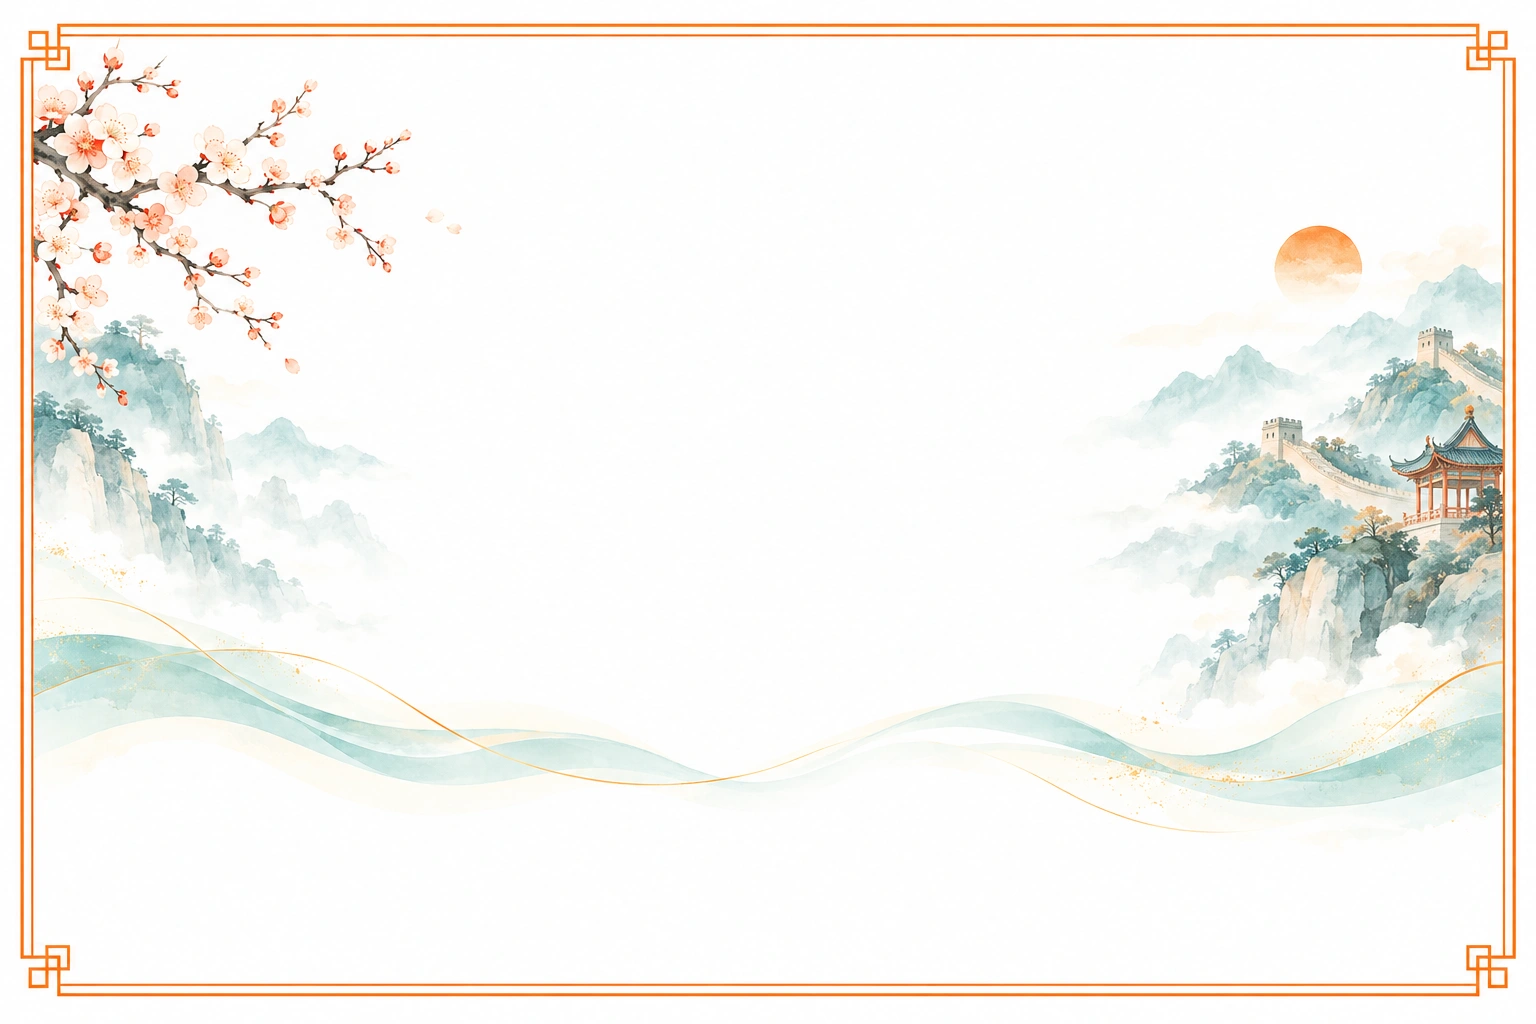
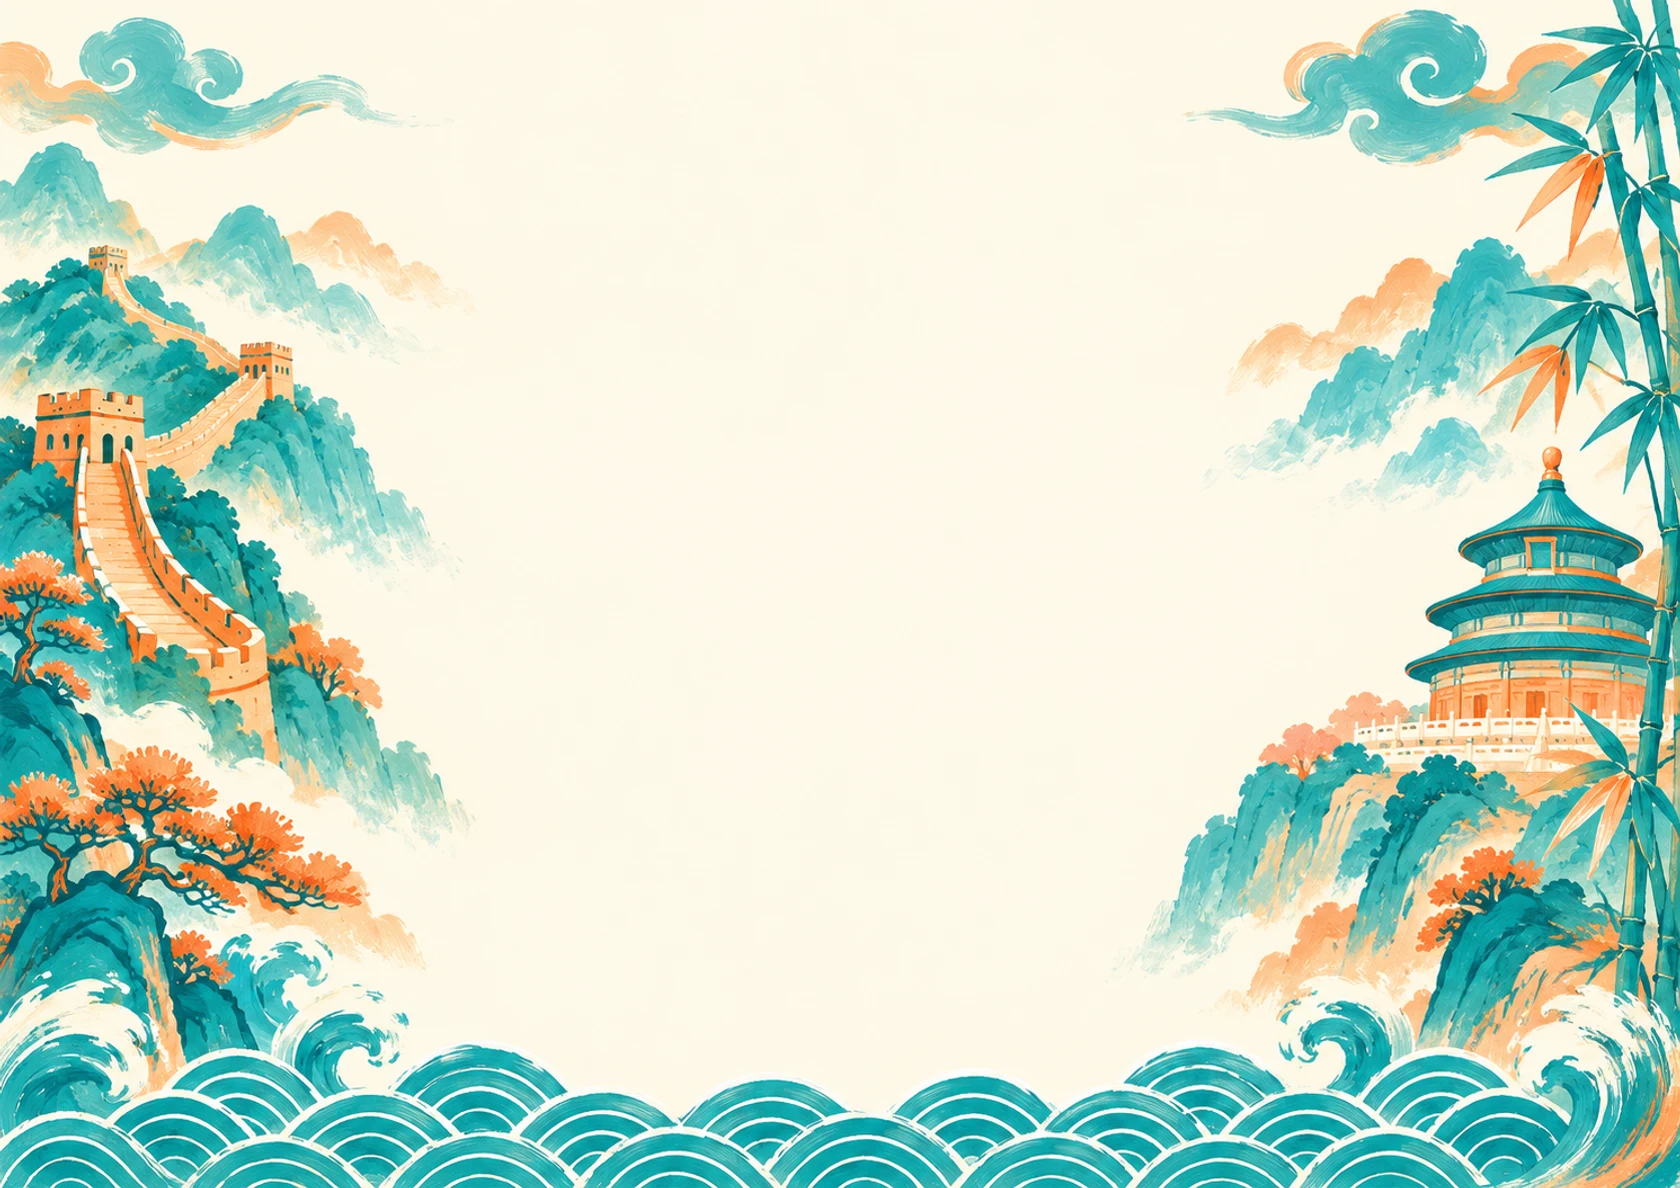
feat: desain sertifikat brush teal dan orange per bahasa

diff --git a/src/components/akun/CourseCertificatePaper.tsx b/src/components/akun/CourseCertificatePaper.tsx
@@ -2,86 +2,73 @@
 
 import { forwardRef, useEffect, useRef, useState, type ReactNode } from 'react';
 import { Award } from 'lucide-react';
-import { courseCertificateTheme } from '@/lib/courseCertificateTheme';
 import CertWatermark from './CertWatermark';
+import CertificateLandscape from './CertificateLandscape';
+import { courseCertificateTheme } from '@/lib/courseCertificateTheme';
 
-// Ukuran kertas tetap supaya tata letak HP dan PDF sama dengan desktop.
 export const COURSE_CERT_WIDTH = 1120;
 export const COURSE_CERT_HEIGHT = 792;
 
 type Props = {
-  code: string | null;
-  badge: ReactNode;
-  name: string;
-  heading: string;
-  body: ReactNode;
-  level: ReactNode;
-  qr: string | null;
-  signature: string;
-  signer: { name: string; role: string };
-  teacher: string;
-  date: string;
-  number?: string | null;
+  code: string | null; language: string; badge: ReactNode; name: string;
+  heading: string; body: ReactNode; level: ReactNode; qr: string | null;
+  signature: string; signer: { name: string; role: string };
+  teacher: string; date: string; number?: string | null;
   labels: { recipient: string; scan: string; issued: string; teacher: string; number: string };
 };
 
-const CourseCertificatePaper = forwardRef<HTMLDivElement, Props>(function CourseCertificatePaper(p, ref) {
+// Kertas berukuran tetap; hanya pratinjau yang diperkecil mengikuti lebar layar.
+export default forwardRef<HTMLDivElement, Props>(function CourseCertificatePaper(p, ref) {
   const outer = useRef<HTMLDivElement>(null);
   const [scale, setScale] = useState(1);
   useEffect(() => {
     const el = outer.current;
     if (!el) return;
-    const read = () => setScale(Math.min(1, el.clientWidth / COURSE_CERT_WIDTH));
-    read();
-    const observer = new ResizeObserver(read);
+    const observer = new ResizeObserver(() => setScale(Math.min(1, el.clientWidth / COURSE_CERT_WIDTH)));
+    setScale(Math.min(1, el.clientWidth / COURSE_CERT_WIDTH));
     observer.observe(el);
     return () => observer.disconnect();
   }, []);
-  const theme = courseCertificateTheme(p.code);
-  const size = p.name.length > 45 ? 34 : p.name.length > 30 ? 44 : 64;
-  return (
-    <div ref={outer} style={{ width: '100%', maxWidth: COURSE_CERT_WIDTH, height: COURSE_CERT_HEIGHT * scale, overflow: 'hidden', borderRadius: 8, boxShadow: '0 8px 36px #12172b12' }}>
-      <div ref={ref} data-course-certificate data-theme={theme} className="cert-paper" style={{ position: 'relative', width: COURSE_CERT_WIDTH, height: COURSE_CERT_HEIGHT, transform: `scale(${scale})`, transformOrigin: 'top left', overflow: 'hidden', background: '#fff', color: '#12172B', fontFamily: "'Inter', Arial, sans-serif" }}>
-        <img src={`/images/certificates/${theme}.webp`} alt="" aria-hidden="true" style={{ position: 'absolute', inset: 0, width: '100%', height: '100%', objectFit: 'fill' }} />
-        <CertWatermark />
-        <div style={{ position: 'absolute', inset: '48px 70px auto', display: 'flex', alignItems: 'center', justifyContent: 'space-between' }}>
-          <span data-certificate-logo style={{ position: 'relative', display: 'inline-flex', padding: '10px 14px', margin: '-10px -14px' }}>
-            <span aria-hidden="true" style={{ position: 'absolute', inset: -18, background: 'radial-gradient(ellipse at center, #fff 48%, rgba(255,255,255,.96) 62%, rgba(255,255,255,.55) 78%, rgba(255,255,255,0) 100%)' }} />
-            <img src="/images/full-logo-linguo-hijau.png" alt="Linguo" style={{ position: 'relative', height: 50, width: 'auto' }} />
-          </span>
-          {p.badge}
-        </div>
-        <div style={{ position: 'absolute', top: 87, left: 160, right: 160, textAlign: 'center' }}>
-          <p style={{ margin: 0, fontSize: 20, letterSpacing: 5, color: '#60697d' }}>CERTIFICATE OF</p>
-          <h2 style={{ margin: '8px -60px 0', fontFamily: "Georgia, 'Times New Roman', serif", fontWeight: 700, fontSize: p.heading.length > 18 ? 49 : 68, lineHeight: 1.12, color: '#101526' }}>{p.heading}</h2>
-          <div style={{ width: 55, height: 3, background: '#ef510b', borderRadius: 5, margin: '16px auto 0' }} />
-          <p style={{ margin: '28px 0 8px', fontSize: 20, color: '#535f77' }}>{p.labels.recipient}</p>
-          <div style={{ height: 80, display: 'flex', alignItems: 'center', justifyContent: 'center' }}>
-            <p style={{ margin: 0, maxWidth: 790, overflowWrap: 'anywhere', fontFamily: "Georgia, 'Times New Roman', serif", fontSize: size, fontWeight: 700, lineHeight: 1.12 }}>{p.name}</p>
-          </div>
-          <div style={{ margin: '14px auto 0', maxWidth: 800, fontSize: 20, lineHeight: 1.5, color: '#58647b' }}>{p.body}</div>
-          <div style={{ display: 'inline-flex', gap: 10, alignItems: 'center', marginTop: 22, padding: '12px 28px', borderRadius: 40, border: '1px solid #ffbc99', background: '#fff5e9', color: '#df4b09', fontSize: 24, fontWeight: 700 }}><Award size={29} />{p.level}</div>
-        </div>
-        <div style={{ position: 'absolute', left: 85, right: 85, bottom: 88, height: 145, display: 'grid', gridTemplateColumns: '1fr 220px 1fr', alignItems: 'center', gap: 30 }}>
-          <div style={{ textAlign: 'left' }}>
-            <img src={p.signature} alt={`${p.signer.name} — ${p.signer.role} signature`} style={{ display: 'block', height: 108, width: 180, objectFit: 'contain', objectPosition: 'left bottom', margin: '-26px 0 4px' }} />
-            <p style={{ margin: 0, fontFamily: 'Georgia, serif', fontSize: 23, fontWeight: 700 }}>{p.signer.name}</p>
-            <p style={{ margin: '6px 0 0', paddingTop: 9, borderTop: '1px solid #b6c2d0', fontSize: 12, letterSpacing: 2.5, color: '#606b80' }}>{p.signer.role.toUpperCase()}</p>
-          </div>
-          <div style={{ textAlign: 'center', borderLeft: '1px solid #ffd2b8', borderRight: '1px solid #ffd2b8', padding: '0 15px' }}>
-            {p.qr ? <img src={p.qr} alt="Certificate verification QR code" style={{ display: 'block', margin: '0 auto', width: 103, height: 103, padding: 5, border: '1px solid #ffbc99', borderRadius: 6, background: '#fff' }} /> : <Award size={72} color="#e95b16" style={{ margin: '0 auto' }} />}
-            <p style={{ margin: '8px 0 0', fontSize: 10, fontWeight: 700, letterSpacing: 1.5, color: '#606b80' }}>{p.qr ? p.labels.scan : 'LINGUO'}</p>
-          </div>
-          <div style={{ textAlign: 'center' }}>
-            <p style={{ margin: 0, fontSize: 23, fontWeight: 700 }}>{p.date}</p>
-            <p style={{ margin: '6px 0 20px', color: '#606b80', fontSize: 12, letterSpacing: 2.5 }}>{p.labels.issued}</p>
-            <p style={{ margin: 0, paddingTop: 12, borderTop: '1px solid #b6c2d0', fontSize: 14, color: '#606b80' }}>{p.labels.teacher}: <b style={{ color: '#12172b', overflowWrap: 'anywhere' }}>{p.teacher}</b></p>
-          </div>
-        </div>
-        {p.number && <p style={{ position: 'absolute', bottom: 32, left: 60, right: 60, textAlign: 'center', margin: 0, fontSize: 12, letterSpacing: 1.5, color: '#606b80' }}>{p.labels.number} · {p.number} · © PT. Linguo Edu Indonesia</p>}
+  const theme = courseCertificateTheme(p.code, p.language);
+  return <div ref={outer} style={{ width: '100%', maxWidth: COURSE_CERT_WIDTH, height: COURSE_CERT_HEIGHT * scale, overflow: 'hidden', borderRadius: 12, boxShadow: '0 8px 36px #123a3b14' }}>
+    <div ref={ref} className="cert-paper" data-course-certificate data-theme={theme} style={{ position: 'relative', width: COURSE_CERT_WIDTH, height: COURSE_CERT_HEIGHT, transform: `scale(${scale})`, transformOrigin: 'top left', overflow: 'hidden', background: '#fff9e8', color: '#103f4b', fontFamily: "Inter, Arial, sans-serif" }}>
+      <img src={`/images/certificates/${theme}.webp`} alt="" style={{ position: 'absolute', inset: 0, width: '100%', height: '100%' }} />
+      {theme === 'watercolor-landscape' && <CertificateLandscape code={p.code} language={p.language} />}
+      <svg aria-hidden="true" viewBox="0 0 1120 792" style={{ position: 'absolute', inset: 0, width: '100%', height: '100%' }}>
+        <path d="M130 110Q180 90 250 101Q540 65 820 104Q940 88 990 112Q970 195 960 255Q945 350 980 425Q955 485 960 550Q965 610 1005 682Q965 736 870 729Q560 750 240 727Q155 748 115 691Q165 620 162 550Q165 485 148 417Q165 345 153 270Q155 180 130 110Z" fill="#fff9e8" fillOpacity=".95" />
+      </svg>
+      <CertWatermark logoOpacity={0.025} textOpacity={0.025} />
+      <div style={{ position: 'absolute', top: 26, left: 30, right: 30, display: 'flex', alignItems: 'center', justifyContent: 'space-between' }}>
+        <span style={{ display: 'inline-flex', padding: '8px 12px', borderRadius: 12, background: '#fff9e8e6' }}><img src="/images/full-logo-linguo-hijau.png" alt="Linguo" style={{ width: 146, height: 'auto' }} /></span>{p.badge}
       </div>
+      <div style={{ position: 'absolute', top: 143, left: 185, right: 185, textAlign: 'center' }}>
+        <h2 style={{ margin: 0, fontFamily: 'Georgia, serif', fontSize: 28, letterSpacing: 2.5, textTransform: 'uppercase' }}>CERTIFICATE OF {p.heading}</h2>
+        <div style={{ margin: '14px auto 25px', display: 'flex', alignItems: 'center', justifyContent: 'center', gap: 18, color: '#f18d57' }}><span style={{ width: 155, height: 1, background: '#f18d57' }} />◆<span style={{ width: 155, height: 1, background: '#f18d57' }} /></div>
+        <p style={{ margin: '0 0 9px', fontSize: 12, letterSpacing: 2, textTransform: 'uppercase', color: '#50777a' }}>{p.labels.recipient}</p>
+        <div style={{ height: 90, display: 'flex', alignItems: 'center', justifyContent: 'center' }}>
+          <p style={{ margin: 0, fontFamily: 'Georgia, serif', fontSize: p.name.length > 100 ? 20 : p.name.length > 70 ? 25 : p.name.length > 55 ? 30 : p.name.length > 32 ? 40 : 59, lineHeight: 1.1, fontWeight: 700, overflowWrap: 'anywhere' }}>{p.name}</p>
+        </div>
+        <div style={{ width: 48, height: 4, background: '#f18d57', borderRadius: 4, margin: '13px auto 22px' }} />
+        <div style={{ fontSize: 17, lineHeight: 1.65 }}>{p.body}</div>
+        <div style={{ display: 'inline-flex', alignItems: 'center', justifyContent: 'center', gap: 10, marginTop: 19, padding: '10px 24px', border: '1px solid #f6b58e', borderRadius: 40, color: '#ed702f', background: '#fff0dc', fontSize: 23, fontWeight: 700 }}><Award size={27} />{p.level}</div>
+      </div>
+      <div style={{ position: 'absolute', bottom: 91, left: 168, right: 168, height: 133, display: 'grid', gridTemplateColumns: '1fr 160px 1fr', alignItems: 'end', gap: 25 }}>
+        <div style={{ textAlign: 'center' }}>
+          <img src={p.signature} alt={`${p.signer.name} — ${p.signer.role}`} style={{ display: 'block', height: 90, width: 185, objectFit: 'contain', margin: '0 auto 2px', mixBlendMode: 'multiply' }} />
+          <p style={{ margin: '0 0 6px', fontFamily: 'Georgia, serif', fontSize: 20, fontWeight: 700 }}>{p.signer.name}</p>
+          <p style={{ margin: 0, paddingTop: 8, borderTop: '1px solid #83afac', fontSize: 10, letterSpacing: 1.6 }}>{p.signer.role.toUpperCase()}</p>
+        </div>
+        <div style={{ textAlign: 'center', borderLeft: '1px solid #f4bd99', borderRight: '1px solid #f4bd99' }}>
+          {p.qr ? <img src={p.qr} alt={p.labels.scan} style={{ display: 'block', margin: '0 auto', width: 88, height: 88, padding: 5, border: '1px solid #f4bd99', borderRadius: 5, background: '#fff' }} /> : <Award size={60} color="#ef742e" style={{ margin: '0 auto' }} />}
+          <p style={{ margin: '7px 0 0', fontSize: 9, letterSpacing: 1.5 }}>{p.qr ? p.labels.scan : 'LINGUO'}</p>
+        </div>
+        <div style={{ textAlign: 'center' }}>
+          <p style={{ fontSize: 21, fontWeight: 700, margin: '0 0 6px' }}>{p.date}</p>
+          <p style={{ margin: '0 0 13px', fontSize: 10, letterSpacing: 1.6 }}>{p.labels.issued}</p>
+          <p style={{ margin: 0, paddingTop: 8, borderTop: '1px solid #83afac', fontSize: 12 }}>{p.labels.teacher}: <b style={{ overflowWrap: 'anywhere' }}>{p.teacher}</b></p>
+        </div>
+      </div>
+      {p.number && <p style={{ position: 'absolute', bottom: 61, left: 100, right: 100, textAlign: 'center', fontSize: 10, letterSpacing: 1.5, margin: 0 }}>{p.labels.number} · {p.number}</p>}
     </div>
-  );
+  </div>;
 });
-
-export default CourseCertificatePaper;

diff --git a/src/components/akun/CertificateLandscape.tsx b/src/components/akun/CertificateLandscape.tsx
@@ -1,0 +1,38 @@
+"use client";
+
+// Ilustrasi arsitektur melengkapi latar cat air; komposisi stabil untuk setiap bahasa.
+export default function CertificateLandscape({ code, language }: { code: string | null; language: string }) {
+  const seed = Array.from(language).reduce((n, c) => (n * 31 + c.charCodeAt(0)) >>> 0, 7);
+  const east = ['hk', 'cn', 'jp', 'kr', 'th', 'vn', 'kh', 'la', 'mm'].includes(code || '');
+  const dome = ['sa', 'ae', 'ir', 'tr', 'pk', 'af', 'uz', 'kz', 'az', 'bd', 'in'].includes(code || '');
+  return <svg aria-hidden="true" viewBox="0 0 1120 792" style={{ position: 'absolute', inset: 0, width: '100%', height: '100%', pointerEvents: 'none' }}>
+    <defs><filter id={`brush-${seed}`} x="-10%" y="-10%" width="120%" height="120%"><feTurbulence type="fractalNoise" baseFrequency=".06" numOctaves="3" seed={seed % 100} result="grain" /><feDisplacementMap in="SourceGraphic" in2="grain" scale="2.5" xChannelSelector="R" yChannelSelector="G" /></filter><pattern id={`windows-${seed}`} width="12" height="17" patternUnits="userSpaceOnUse"><rect x="4" y="4" width="3" height="8" fill="#fff3d5" opacity=".7" /></pattern></defs>
+    <g filter={`url(#brush-${seed})`} opacity=".88" fill="#56b6b0" stroke="#c1e5d4" strokeWidth="1.5">
+      {Array.from({ length: 9 }, (_, i) => {
+        const height = 35 + ((seed >>> (i * 3)) % 95);
+        return <g key={i}><rect x={i * 18 - 10} y={560 - height} width="17" height={height} /><rect x={i * 18 - 10} y={560 - height} width="17" height={height} fill={`url(#windows-${seed})`} /><path d={`M${i * 18 - 10} ${560 - height}l8 -12 9 12`} /></g>;
+      })}
+    </g>
+    <g filter={`url(#brush-${seed})`} transform={`translate(955 ${440 + seed % 30})`} stroke="#328e8d" strokeWidth="3" strokeLinejoin="round">
+      {code === 'id' ? <>
+        <path d="M15 110V40h110v70Z" fill="#ffc394" stroke="#f39869" strokeWidth="7" />
+        <path d={`M0 45Q30 35 45 ${-15-seed%25}H95Q110 35 145 45Z`} fill="#279d9a" />
+        <path d="M35 110V60h25v50m35 0V60h20v50" fill="#fff3d5" />
+      </> : east ? <>
+        <path d="M20 100V35h100v65M35 100V40m70 60V40" fill="#ffc394" stroke="#f39869" strokeWidth="9" />
+        {[0, 1, 2].map(i => <path key={i} d={`M${5+i*12} ${40-i*27}Q65 ${50-i*27} ${135-i*12} ${40-i*27}L${115-i*10} ${20-i*27}Q65 ${32-i*27} ${25+i*10} ${20-i*27}Z`} fill="#279d9a" />)}
+        <path d="M0 105h140v13H0z" fill="#f9dab1" />
+      </> : dome ? <>
+        <path d="M20 100V20h100v80Z" fill="#f9dab1" /><path d="M15 20Q10 -5 70 -40Q130 -5 125 20Z" fill="#4eb5a9" />
+        <path d="M2 100V-25m136 125V-25" strokeWidth="10" /><path d="M55 100V65Q70 43 85 65v35" fill="#328e8d" />
+      </> : code === 'nl' ? <>
+        <path d="M40 110l15 -95h30l15 95Z" fill="#f3c49b" /><path d="M45 15L70 -12 95 15Z" fill="#25918d" /><path d="M70 30L20 -20m50 50 50 50M70 30l50 -50M70 30L20 80" stroke="#ec9365" strokeWidth="12" />
+      </> : code === 'fr' ? <>
+        <path d="M20 115Q60 50 65 -45h10q5 95 45 160H90L70 75l-20 40Z" fill="#379e9b" /><path d="M35 80h70M45 40h50M60 -8h20" stroke="#f6bf8a" strokeWidth="5" />
+      </> : <>
+        {[0,1,2].map(i => <g key={i} transform={`translate(${i*43} ${i===1 ? -35 : 0})`}><path d="M0 110V0h35v110Z" fill={i===1 ? '#55b2ab' : '#f7ceaa'} /><path d="M-4 0L17 -25 39 0Z" fill="#289d99" /><path d="M10 25h15m-15 20h15m-15 20h15" stroke="#fff3d5" strokeWidth="8" /></g>)}
+      </>}
+    </g>
+    {code === 'hk' && <g transform="translate(25 610)"><path d="M0 20Q70 45 145 15L120 50H30Z" fill="#135660" /><path d="M65 -100V20M110 -75V20" stroke="#145c60" strokeWidth="3" /><path d="M61 -100L10 0h51ZM105 -75L72 0h33Z" fill="#ffad78" stroke="#e88658" strokeWidth="2" /></g>}
+  </svg>;
+}

diff --git a/src/lib/courseCertificateTheme.ts b/src/lib/courseCertificateTheme.ts
@@ -1,13 +1,13 @@
-// Tema mengikuti bahasa; bahasa lain tetap memperoleh desain internasional.
-export function courseCertificateTheme(code: string | null): string {
-  if (code === 'hk') return 'cantonese';
-  if (code === 'jp') return 'japanese';
-  if (code === 'kr') return 'korean';
-  if (code === 'cn') return 'mandarin';
-  if (['us', 'gb'].includes(code || '')) return 'english';
-  if (['sa', 'ae', 'ir', 'il', 'pk', 'af'].includes(code || '')) return 'arabic';
-  if (['vn', 'th', 'kh', 'la', 'mm', 'my', 'ph'].includes(code || '')) return 'southeastasia';
-  if (code === 'id') return 'indonesia';
-  if (['fr', 'de', 'es', 'it', 'pt', 'br', 'ru', 'nl', 'gr', 'tr', 'pl', 'cz', 'dk', 'se', 'fi', 'no', 'hu', 'ro', 'bg', 'ua', 'is', 'ba', 'rs', 'hr', 'sk', 'si', 'al', 'lt', 'lv', 'ee', 'mk', 'ie', 'gb-wls', 'es-ct', 'va'].includes(code || '')) return 'europe';
-  return 'world';
+// Ilustrasi khusus bahasa utama; bahasa lainnya memakai lanskap dengan arsitektur
+// yang divariasikan secara stabil menurut nama bahasa (termasuk bahasa daerah).
+const THEMES: Record<string, string> = {
+  hk: 'cantonese', cn: 'mandarin', jp: 'japanese', kr: 'korean', gb: 'english', us: 'english',
+  sa: 'arabic', nl: 'dutch', fr: 'french', de: 'german', es: 'spanish', it: 'italian',
+  ru: 'russian', in: 'hindi', id: 'indonesian', pt: 'portuguese', br: 'brazilian',
+  th: 'thai', vn: 'vietnamese', tr: 'turkish', gr: 'greek',
+};
+export function courseCertificateTheme(code: string | null, language?: string): string {
+  if (code === 'id' && language && !/^(BIPA|Indonesian|Indonesia|Bahasa Indonesia)$/i.test(language)) return 'watercolor-landscape';
+  if (code === 'in' && language && !/^Hindi$/i.test(language)) return 'watercolor-landscape';
+  return THEMES[code || ''] || 'watercolor-landscape';
 }

diff --git a/src/components/akun/SertifikatTab.tsx b/src/components/akun/SertifikatTab.tsx
@@ -226,11 +226,11 @@ function FlagBadge({ lang, variant, dark = false }: { lang: string; variant: "li
   if (variant === "chip") {
     // pill bendera + nama, dipakai di kartu sertifikat
     return (
-      <span className="inline-flex items-center gap-2 rounded-full bg-white px-3 py-1.5 shadow-[0_4px_14px_-8px_rgba(18,23,43,.4)]" style={{ border: `1px solid ${col.accent}33` }}>
+      <span className="inline-flex items-center gap-2 rounded-full bg-white px-3 py-1.5 shadow-[0_4px_14px_-8px_rgba(18,23,43,.4)]" style={{ border: "1px solid #ffc8a3", background: "#fff9e8" }}>
         {url
           ? <img src={url} alt={lang} className="h-4 w-6 rounded-[3px] object-cover" style={{ boxShadow: "0 0 0 1px rgba(0,0,0,.06)" }} />
           : <span className="flex h-4 w-6 items-center justify-center rounded-[3px] text-[9px] font-extrabold" style={{ background: col.bg, color: col.text }}>{glyphOf(lang)}</span>}
-        <span className="text-[12px] font-extrabold tracking-wide" style={{ color: col.text }}>{lang}</span>
+        <span className="text-[12px] font-extrabold tracking-wide" style={{ color: "#ef742e" }}>{lang}</span>
       </span>
     );
   }
@@ -847,7 +847,7 @@ function IssuedDetail({ ct, studentName, defaultName, onSaveName, lingwordsUserI
       <div data-cert-slide style={{ gridArea: "1 / 1", minWidth: 0, visibility: slide === 0 ? "visible" : "hidden" }} aria-hidden={slide !== 0}>
       <CourseCertificatePaper
         ref={cardRef}
-        code={flagCodeOf(ct.language)}
+        code={flagCodeOf(ct.language)} language={ct.language}
         badge={<FlagBadge lang={ct.language} variant="chip" />}
         name={studentName}
         heading={isKids ? "ACHIEVEMENT" : "COMPLETION"}
